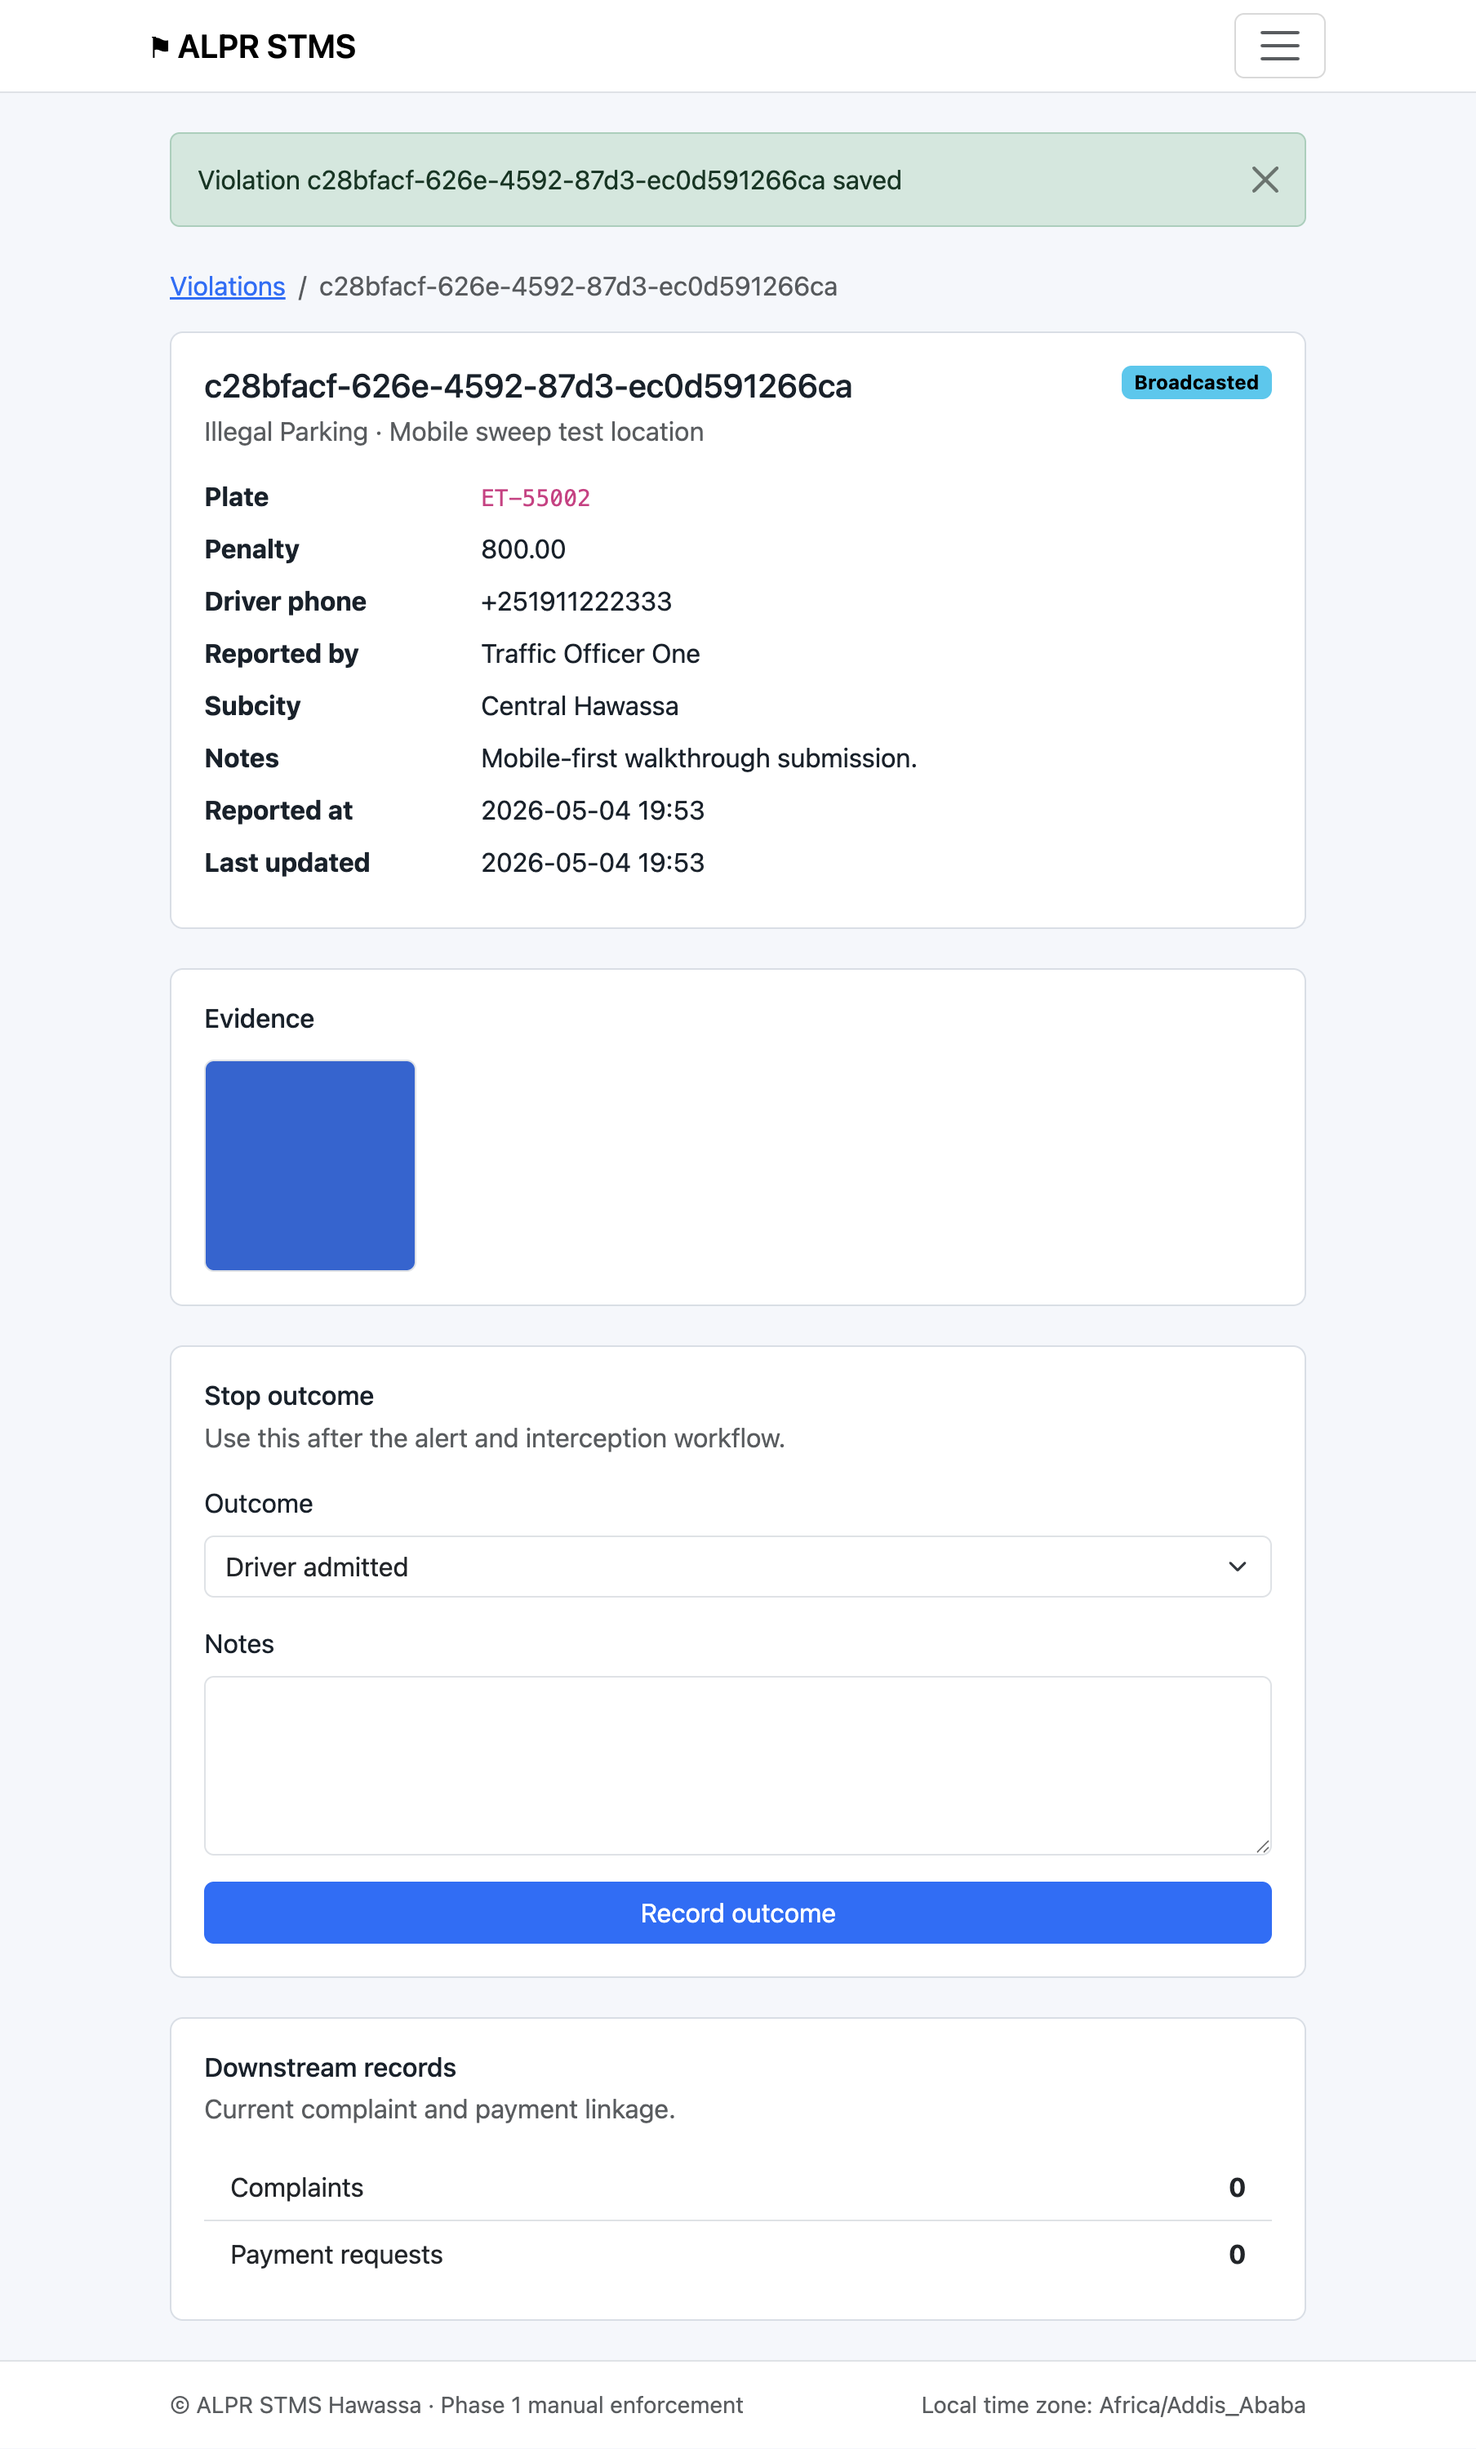
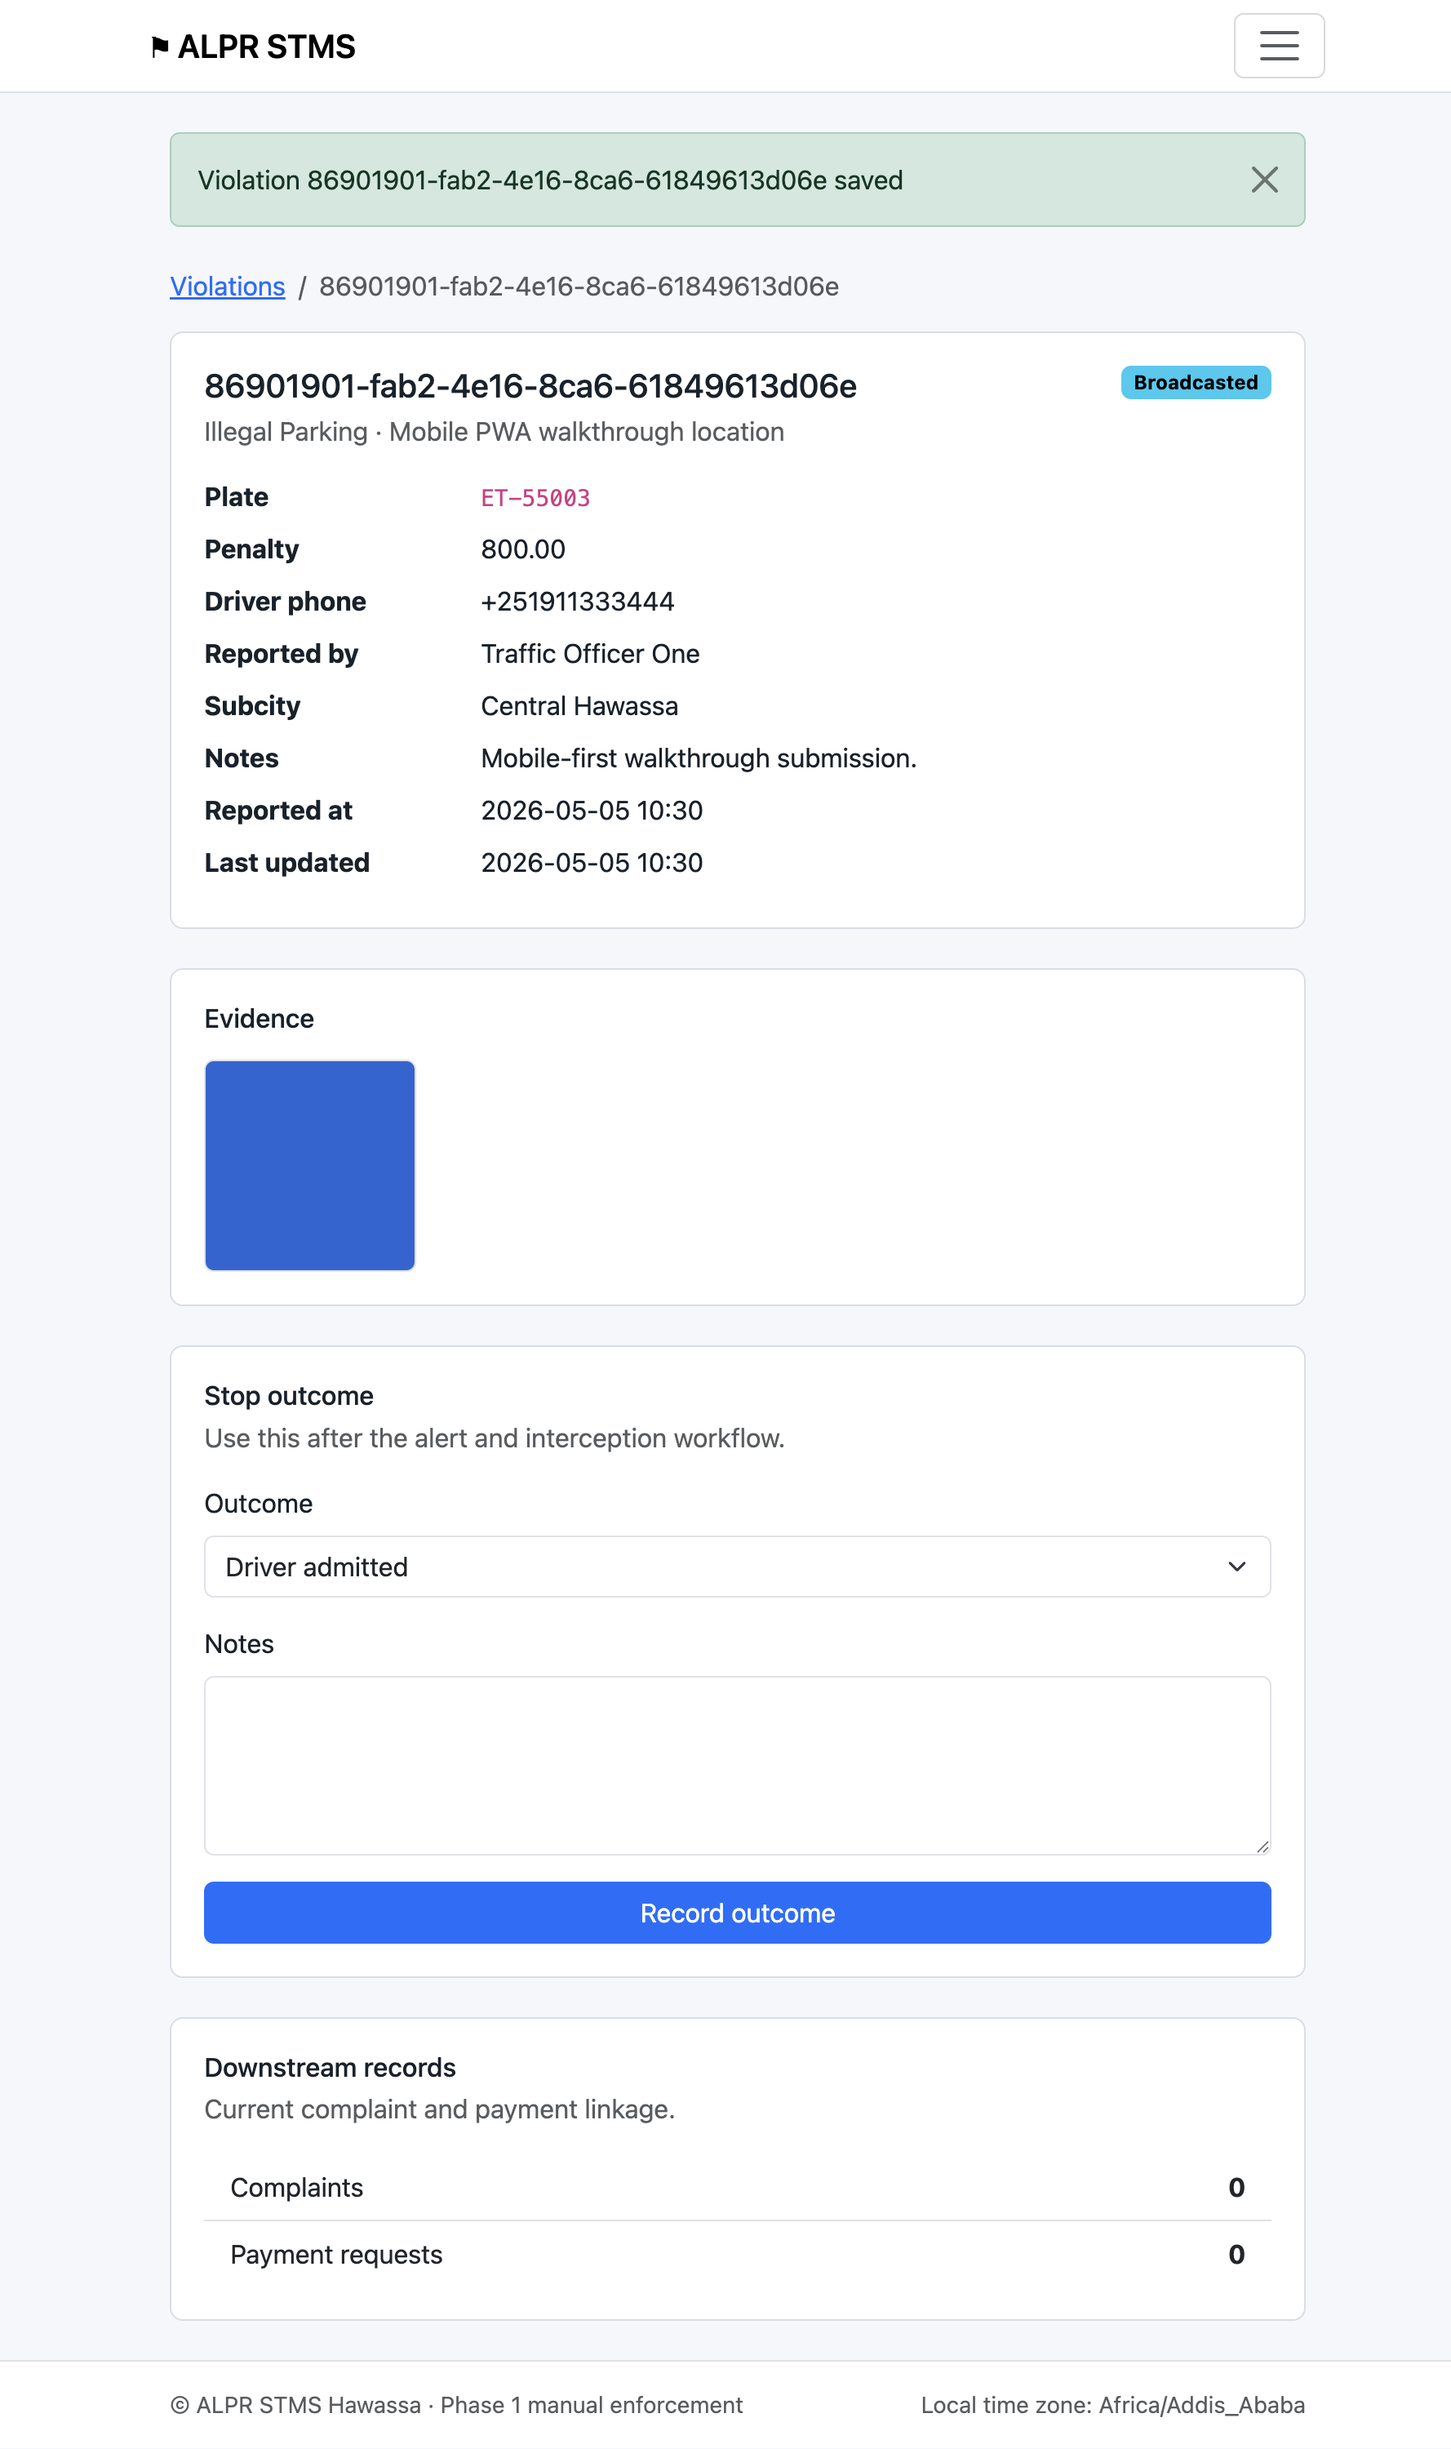
Document PWA mobile and offline validation

diff --git a/docs/planning/phase-1-master-tracker.md b/docs/planning/phase-1-master-tracker.md
@@ -226,6 +226,7 @@
 | 2026-05-03 | Operator quickstart + Webs walkthrough evidence documented; responsive layout polish and validation updates in progress |
 | 2026-05-04 | Webs walkthrough screenshots captured; responsive tap targets tuned; mobile/desktop UI evidence added; tracker evidence refreshed |
 | 2026-05-04 | Webs validation sweep documented; PWA manifest icons and service-worker cache updated for install checks |
+| 2026-05-05 | PWA mobile walkthrough and offline/degraded checks documented with new screenshots |
 
 ## 15. Deployment readiness gate
 
@@ -273,7 +274,7 @@ readiness gate in Section 15.
 | --- | --- | --- | --- |
 | 1 | Phase 1 backend foundation | Complete | `v0.1.0-phase1`, 44/44 pytest, ruff clean, smoke green, backup-smoke green |
 | 2 | Phase 1 Webs sub-phase | Complete | Browser walkthroughs for admin, officer, complaint, alert, and payment screens; responsive checks; validation sweep documented |
-| 3 | Phase 1 Apps/PWA sub-phase | Pending | Installable PWA validation, offline/error-state checks, mobile evidence upload proof, field-user smoke script |
+| 3 | Phase 1 Apps/PWA sub-phase | Complete | Installable PWA validation, mobile evidence upload proof, offline/degraded checks |
 | 4 | Pilot readiness package | Pending | Deployment checklist, operator quickstart, seeded-account rotation proof, post-pilot feedback template |
 
 ### Webs Sub-Phase Work Items
@@ -292,8 +293,8 @@ readiness gate in Section 15.
 | Task ID | Work item | Status | Evidence target |
 | --- | --- | --- | --- |
 | P1-PWA-001 | Validate manifest and service worker install flow | Complete | `docs/operations/phase-1-webs-validation.md` |
-| P1-PWA-002 | Mobile-first officer reporting walkthrough | Pending | Evidence upload, GPS capture, and submission flow on narrow viewport |
-| P1-PWA-003 | Offline/degraded-state handling for field reporting | Pending | Documented behavior when network/storage is unavailable |
+| P1-PWA-002 | Mobile-first officer reporting walkthrough | Complete | `docs/operations/phase-1-webs-validation.md` |
+| P1-PWA-003 | Offline/degraded-state handling for field reporting | Complete | `docs/operations/phase-1-webs-validation.md` |
 
 ### Waitlist (Post-Webs / Post-PWA)
 

diff --git a/docs/operations/phase-1-webs-validation.md b/docs/operations/phase-1-webs-validation.md
@@ -3,12 +3,12 @@
 ## Purpose
 
 This document records the manual validation sweep for the Phase 1 Webs sub-phase
-and the initial PWA install checks. It is the evidence log for P1-WEB-003,
-P1-WEB-005, P1-WEB-006, and P1-PWA-001.
+and the PWA checks. It is the evidence log for P1-WEB-003, P1-WEB-005,
+P1-WEB-006, P1-PWA-001, P1-PWA-002, and P1-PWA-003.
 
 ## Environment
 
-- Date: 2026-05-04
+- Dates: 2026-05-04, 2026-05-05
 - App URL: http://localhost:8080
 - Stack startup: `make first-boot`
 - Data seed: `python -m app.bootstrap`
@@ -62,3 +62,17 @@ docker compose exec -T supabase-db psql -U postgres -d postgres -c "select id, r
 - Service worker registers and activates with scope `/`.
 - Cache `alpr-stms-shell-v2` includes the manifest and icon assets after reload.
 - Install prompt could not be forced in the headless run; only registration and asset checks were validated.
+
+## P1-PWA-002: Mobile-first officer reporting walkthrough
+
+- Viewport set to 390x844 and logged in as `traffic.officer1`.
+- Submitted a violation with evidence upload, escape path points, and notes.
+- Evidence thumbnail renders on the detail screen after submission.
+- Screenshots captured: `pwa-violations-form.png`, `pwa-violations-detail.png`.
+
+## P1-PWA-003: Offline and degraded-state checks
+
+- Offline navigation to `/violations` fails with browser-level `net::ERR_FAILED`.
+- Offline submission attempt fails with `net::ERR_INTERNET_DISCONNECTED`.
+- Map tile requests abort while offline, so the map surface does not render.
+- Headless offline error screenshot rendered blank; file stored as `pwa-offline-error.png`.

diff --git a/docs/operations/screenshots/README.md b/docs/operations/screenshots/README.md
@@ -2,3 +2,6 @@
 
 Place walkthrough screenshots here using the filenames listed in
 `docs/operations/phase-1-webs-walkthrough.md`.
+
+PWA validation screenshots are listed in
+`docs/operations/phase-1-webs-validation.md`.
